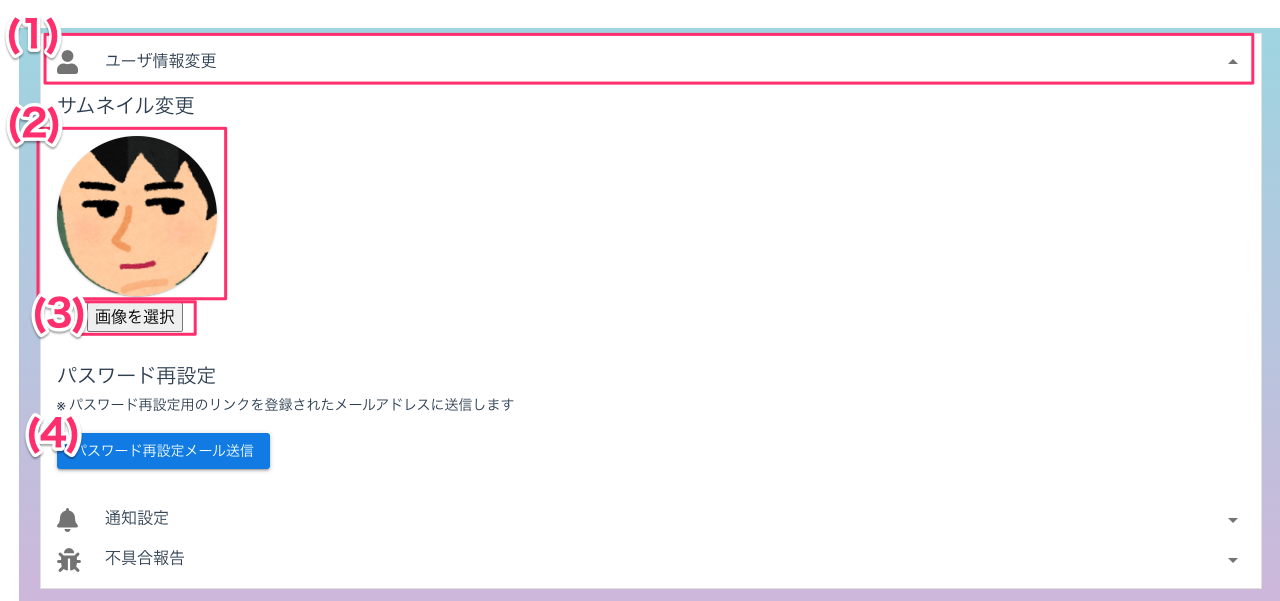
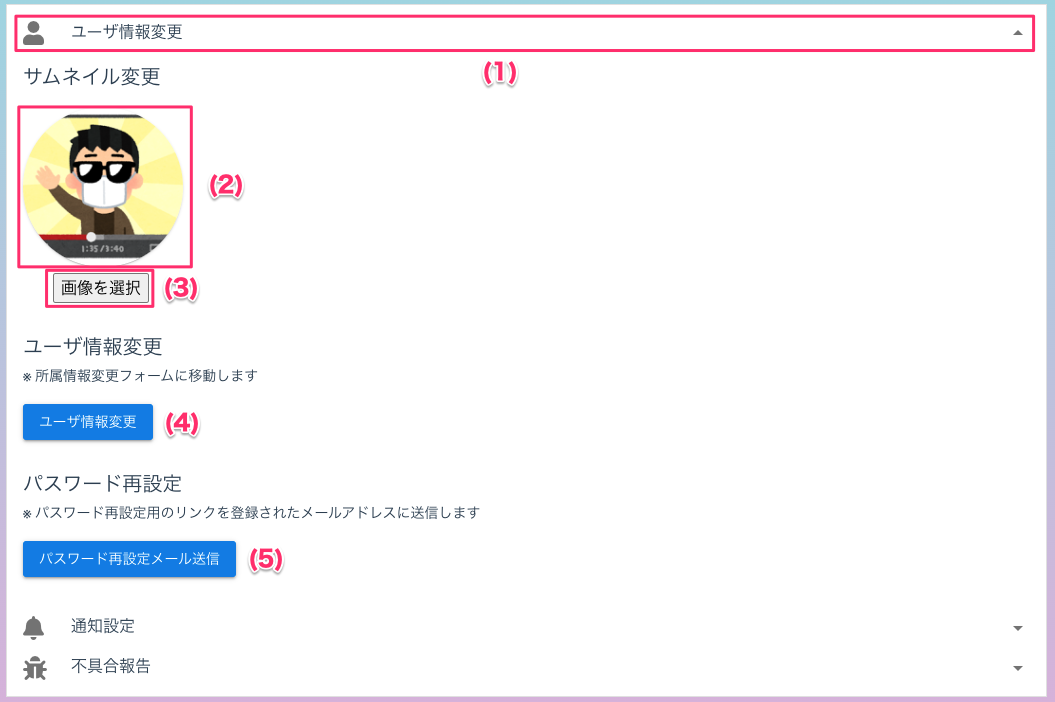
202505リリース

Changed region(s): [[0.0, 0.0, 1.0, 1.0]]

diff --git a/docs/releasenote/index.md b/docs/releasenote/index.md
@@ -1,17 +1,68 @@
 # リリースノート
 
-## :material-new-box: 2025年3月アップデート内容
+## :material-new-box: 2025年5月アップデート内容
+
+**※詳細は各リンクからご確認ください。**
+
+- ***新機能***
+    - **グラッチェ取消([<u>Web版</u>](../一般機能/GraziePoint/grazie03.md)/[<u>スマホ版</u>](../app/index.md#_7))**
+        - **管理者画面から[<u>グラッチェ取消を許可</u>](../管理者機能/その他設定/other07.md)することでご利用いただけます**
+        - メッセージ送信後、**24時間以内**であれば取消ができるようになります
+        - 取り消されると履歴に表示されなくなります
+        - 付与されたグラッチェポイントや、スーパーグラッチェで送られたコインは元に戻ります
+
+    - **ユーザ情報変更([<u>Web版</u>](../一般機能/Setting/setting01.md#_7)/[<u>スマホ版</u>](../app/index.md#_26))**
+        - **管理者画面から[<u>ユーザ情報変更機能を有効</u>](../管理者機能/その他設定/other06.md)にすることでご利用いただけます**
+        - ユーザ自身でユーザ情報を変更できるようになりました
+            
+            **※現在変更できるのは「所属情報」のみです。**
+
+    - **自動集計実行時のメール送信([<u>Web版</u>](../管理者機能/自動集計設定/autototal02.md#_7))**
+        - **現在設定されている自動集計は、デフォルトで「メール送信」が有効になっています。**メールを送りたくない場合は、[**<u>編集画面</u>**](../管理者機能/自動集計設定/autototal01.md#_6)から完了メールを無効にしてください
+        - 自動集計が実行された際に、通知メールを送信するオプションを追加しました
+        - 失敗した場合には、原因もあわせてメールに記載されます
 
 - ***変更点***
-    - スマホアプリ版
-        - [<u>パスワード再発行機能の追加</u>](../app/index.md#_3)
-            - ログイン画面からパスワード再発行のメールを送信できるようになります。
-        - [<u>ランキング画面の操作性向上</u>](../app/index.md#ranking)
-            - 事業所の切り替え方法をタブからプルダウンに変更しました。
-        - **アプリのパフォーマンス向上**
-            - デザインを一部改善し、よりスムーズに操作できるようになりました。
-    - Web版
-        - 変更はございません。
+    - **デフォルトメッセージ画面の初回タップ時に設定されているメッセージをクリアするようになりました([<u>スマホ版</u>](../app/index.md#_27))**
+        - 設定されているデフォルトメッセージを確認・編集しやすくなりました
+    - **コイン履歴に送金時のメッセージが表示されるようになりました(スマホ版)**
+        - 対象：スーパーグラッチェ／コイン送金／管理者画面からのコイン送金
+
+            <a href="../releasenote/img/202505/202505-1.png" data-lightbox="スクリーンショット" data-title="スクリーンショット">
+                <img src="../releasenote/img/202505/202505-1.png" style=" width: 300px;" />
+            </a>
+
+    - **ボタンが押せない場合は灰色で表示されるようになりました(スマホ版)**
+        - 押せない状態がひと目で分かるようになり、操作ミスを防ぎやすくなりました
+            - 押せない状態
+
+            <a href="../releasenote/img/202505/202505-2.png" data-lightbox="スクリーンショット" data-title="スクリーンショット">
+                <img src="../releasenote/img/202505/202505-2.png" style="border: solid 1px #ccc; width: 465px;" />
+            </a>
+
+            - 押すことができる状態
+
+            <a href="../releasenote/img/202505/202505-3.png" data-lightbox="スクリーンショット" data-title="スクリーンショット">
+                <img src="../releasenote/img/202505/202505-3.png" style="border: solid 1px #ccc; width: 465px;" />
+            </a>
+
+    - **画面上部に「Grazie Coin」のロゴが表示されるようになりました(スマホ版)**
+        - 現在の画面が「Grazie Coin」の画面であることがより分かりやすくなりました
+
+            <a href="../releasenote/img/202505/202505-4.png" data-lightbox="スクリーンショット" data-title="スクリーンショット">
+                <img src="../releasenote/img/202505/202505-4.png" style="width: 300px;" />
+            </a>
+
+## 2025年3月アップデート内容
+
+- ***新機能***
+    - **パスワード再発行機能の追加([<u>スマホ版</u>](../app/index.md#_3))**
+        - ログイン画面からパスワード再発行のメールを送信できるようになります
+- ***変更点***
+    - **ランキング画面の操作性向上([<u>スマホ版</u>](../app/index.md#ranking))**
+        - 事業所の切り替え方法をタブからプルダウンに変更しました
+    - **パフォーマンス向上(スマホ版)**
+        - デザインを一部改善し、よりスムーズに操作できるようになりました
 
 ##  2024年11月アップデート内容
 
@@ -58,17 +109,17 @@
 ##  2024年9月アップデート内容
 
 - ***新機能***
-    - **商品に在庫数を設定できるようになりました！([<u>Web版</u>](../管理者機能/productmaintenance.md)/[<u>スマホアプリ版</u>](../app/index.md#_10))**
+    - **商品に在庫数を設定できるようになりました！([<u>Web版</u>](../管理者機能/productmaintenance.md)/[<u>スマホ版</u>](../app/index.md#_10))**
         - 在庫数が0になると「売り切れ」になり、ユーザは商品の交換ができなくなります
-    - **商品の交換申請を取り消しできるようになりました！([<u>Web版</u>](../一般機能/GrazieCoin/coin04.md)/[<u>スマホアプリ版</u>](../app/index.md#_11))**
+    - **商品の交換申請を取り消しできるようになりました！([<u>Web版</u>](../一般機能/GrazieCoin/coin04.md)/[<u>スマホ版</u>](../app/index.md#_11))**
         - 取り消しを行うと、交換時に消費したコインが返金されます
         - **※2024年9月以降に交換申請した商品のみが対象です**
-    - **コイン送金機能の制限ができるようになりました！([<u>Web版</u>](../管理者機能/その他設定/other05.md)/[<u>スマホアプリ版</u>](../app/index.md#coin))**
+    - **コイン送金機能の制限ができるようになりました！([<u>Web版</u>](../管理者機能/その他設定/other05.md)/[<u>スマホ版</u>](../app/index.md#coin))**
         - 制限されたユーザは一般画面のコイン送金ができなくなります(管理者画面からのコイン送金は除く)
     - **CSVアップロードが更新にも対応するようになりました！([<u>Web</u>](../管理者機能/ユーザ/user04.md))**
         - 今までは登録のみでしたが、ついに更新にも対応しました
         - また、現在登録しているユーザの一覧をCSVでダウンロードできるため、更新も簡単です！
-    - **履歴からグラッチェできるようになりました！([<u>スマホアプリ版</u>](../app/index.md#history))**
+    - **履歴からグラッチェできるようになりました！([<u>スマホ版</u>](../app/index.md#history))**
         - 履歴に表示されているユーザ名をタップするだけで、グラッチェ入力画面に遷移します
 
 ## 2024年7月アップデート内容

diff --git a/docs/管理者機能/その他設定/other07.md b/docs/管理者機能/その他設定/other07.md
@@ -1,0 +1,57 @@
+[管理者ユーザマニュアル](../../../管理者機能/) > [機能説明](../../../管理者機能/#_16) > [グラッチェ設定](../../../管理者機能/#_26) > [グラッチェ取消](#)
+# グラッチェ取消
+
+## ❓グラッチェ取消とは
+
+グラッチェを**送った**ユーザが、グラッチェを取り消すことができる機能です。
+
+グラッチェ取消の設定が有効であれば、グラッチェを送ってから**24時間以内**であれば取り消すことができます
+
+グラッチェが取り消されると**履歴に表示されなくなり、付与されたグラッチェポイントや、スーパーグラッチェで送られたコインは送信前に戻ります**
+
+### グラッチェ取消機能の仕様
+|   取消対象   | グラッチェポイント    | グラッチェ/コイン履歴  | スーパーグラッチェで配布されたコイン(※)  | グラッチェ回数制限(*)  |
+| :---: | :---: | :---: | :---: | :---: |
+| 24時間未満 | 送受信ユーザのポイントが1減ります | 非表示になります | 受信ユーザから回収されて会社の残高に戻ります | 回数が1回戻ります |
+
+**※機能を有効にされている場合にのみ適用されます**
+
+
+### グラッチェ取消設定の有効範囲
+
+事業所が有効な場合、**事業所ごとに設定を行う必要があります**。
+
+!!! example
+    - 横浜事業所 : グラッチェ取消有効
+    - 千葉事業所 : グラッチェ取消無効
+
+    上記のような設定がされている場合、横浜事業所のユーザはグラッチェ取消できますが、千葉事業所ユーザはグラッチェ取消ができません
+
+### 注意事項
+
+!!! warning
+    - グラッチェを取消した場合でも、既に集計されている集計結果は変わりません
+    - 「集計・表彰」画面の「メッセージ出力」機能から、集計された期間内の取消されたグラッチェを確認できます
+    - スーパーグラッチェの場合、グラッチェを受信したユーザの残高が配布されたコインよりも少ない場合は取消できません
+
+## 画面
+<a href="../../../images/other/8.png" data-lightbox="スクリーンショット" data-title="スクリーンショット">
+    <img src="../../../images/other/8.png" style="border: solid 1px #ccc; width: 800px;" />
+</a>
+
+（クリックすると拡大します）
+
+
+## 画面項目
+|   #   | 項目名                                 | 必須  | 説明                                                                           |
+| :---: | :------------------------------------- | :---: | :----------------------------------------------------------------------------- |
+|   1   | [グラッチェ回数制限タブ](other01.md)                 |   -   | グラッチェ回数制限を設定するタブです                                           |
+|   2   | [スーパーグラッチェタブ](other02.md)                 |   -   | スーパーグラッチェを設定するタブです                                           |
+|   3   | グラッチェ取消タブ         |   -   | グラッチェ取消機能を設定するタブです                     |
+|   4   | グラッチェ取消機能有効スイッチ |   -   | グラッチェ取消設定の有効・無効を切り替えるスイッチです |
+|   5   | 取消機能の仕様          |   -   | グラッチェ取消機能の仕様が表示されます                    |
+|   6   | 保存ボタン                             |   -   | ボタンを押すと設定を保存します                                                 |
+
+## 使い方
+### グラッチェ取消機能を設定する
+<iframe src="https://scribehow.com/embed/__twp2K_5ZSoWIsflhNNNeUw" width="640" height="640" allowfullscreen frameborder="0"></iframe>

diff --git a/docs/管理者機能/自動集計設定/autototal02.md b/docs/管理者機能/自動集計設定/autototal02.md
@@ -1,5 +1,5 @@
 [管理者ユーザマニュアル](../../../管理者機能/) > [機能説明](../../../管理者機能/#_16) > [自動集計設定](../../../管理者機能/#_23) > [集計対象組織選択](#)
-# 集計対象組織選択
+# :material-new-box: 集計対象組織選択
 
 ## 画面
 <a href="../../../images/autototal/2-1.png" data-lightbox="スクリーンショット" data-title="スクリーンショット">
@@ -13,10 +13,12 @@
 |   #   | 項目名           | 必須  | 説明                                                       |
 | :---: | :--------------- | :---: | :--------------------------------------------------------- |
 |   1   | 表彰実行スイッチ |   -   | スイッチONを設定すると、自動で集計を実行後に表彰を行います |
-|   2   | 集計対象         |   ○   | 集計対象を選択します                                       |
-|   3   | 集計対象部署     |   ○   | 集計対象とする部署を選択します                             |
-|   4   | [一覧へ戻るボタン](autototal01.md) |   -   | ボタンを押すと自動集計設定一覧画面へ戻ります               |
-|   5   | [次へボタン](autototal03.md)       |   -   | ボタンを押すと賞金入力画面へ遷移します                     |
+|   2   | :material-new-box: 完了メールスイッチ |   -   | スイッチONを設定すると、集計実行後に管理者宛にメールを送信します |
+|   3   | :material-new-box: 完了メールヘルプボタン |   -   | マウスカーソルを合わせると完了メールについて説明が表示されます |
+|   4   | 集計対象         |   ○   | 集計対象を選択します                                       |
+|   5   | 集計対象部署     |   ○   | 集計対象とする部署を選択します                             |
+|   6   | [一覧へ戻るボタン](autototal01.md) |   -   | ボタンを押すと自動集計設定一覧画面へ戻ります               |
+|   7   | [次へボタン](autototal03.md)       |   -   | ボタンを押すと賞金入力画面へ遷移します                     |
 
 
 ## 使い方
@@ -27,3 +29,9 @@
 ### 集計対象組織を指定する（表彰あり）
 <iframe src="https://scribehow.com/embed/__9N7Ha-7zS3u8jP3Tkzr8Kw" width="640" height="640" allowfullscreen frameborder="0"></iframe>
 
+### 自動集計実行時の完了メールを設定する
+- 完了メールについて
+    - 集計完了時に「**自動集計を作成したユーザ**」と自動集計を設定した「**会社/事業所の管理者全員**」にメールが送られます
+    - 自動集計に失敗した場合には、原因もあわせてメールに記載されます
+
+<iframe src="https://scribehow.com/embed/__w81TwKlrTpytWxE57U6C-A" width="640" height="640" allowfullscreen frameborder="0"></iframe>

diff --git a/docs/app/index.md b/docs/app/index.md
@@ -29,7 +29,7 @@
   - Android : 指紋認証、顔認証が利用できます
     - 画面上のラベルは「指紋認証」「顔認証」と表示されます
 
-### :material-new-box: パスワード再設定
+### パスワード再設定
 ##### 1.パスワード入力欄の右下にある「パスワード忘れた？」をタップしてください
 
 <img alt="ログイン" src="img/login2.png" width="300">
@@ -72,6 +72,12 @@
 <img alt="Home3" src="img/Home4.png" width="300">
 <img alt="Home4" src="img/Home3.png" width="300">
 
+### :material-new-box: グラッチェを取り消す
+
+- グラッチェ取消機能の仕様は[こちら](../管理者機能/その他設定/other07.md)をご確認ください。
+
+<img alt="Home5" src="img/Home5.png" width="300">
+<img alt="Home6" src="img/Home6.png" width="300">
 
 ## Grazie
 グラッチェを送る画面です。
@@ -151,7 +157,7 @@
 <img alt="商品選択" src="img/coin6.png" width="300">
 
 
-## :material-new-box: Ranking
+## Ranking
 過去の集計結果、その日のグラッチェをした/されたユーザをランキング形式で表示する画面です。
 グラッチェ集計の表彰ランキングと、サービス利用開始から通算のランキングと、1日ごとのランキングを表示します。
 プルダウンを切り替えるとサービスを利用する組織全体や事業所ごとの表示になります。
@@ -248,10 +254,23 @@
 <img alt="サムネイル画像確認" src="img/settings5.png" width="300">
 <img alt="サムネイル変更後" src="img/settings6.png" width="300">
 
-### グラッチェメッセージ変更
+### :material-new-box: ユーザ情報変更
+
+- ユーザ情報更新リンク機能が有効になっている場合にのみご利用いただけます
+- ユーザ情報更新フォームの操作手順は[こちら](../一般機能/Setting/setting01.md#_7)をご確認ください
+
+<img alt="ユーザ情報変更" src="img/settings9.png" width="300">
+<img alt="ユーザ情報変更" src="img/settings10.png" width="300">
+
+### :material-new-box: グラッチェメッセージ変更
 Grazie画面でユーザ名の右隣に表示される👍ボタンをタップした際のデフォルトメッセージを変更できます。
 
 <img alt="デフォルトグラッチェメッセージ" src="img/settings2.png" width="300">
+
+:material-new-box: 設定されているメッセージをタップすると入力がクリアされ、入力例に設定されていたメッセージが表示されます。
+
+<img alt="設定" src="img/settings7.png" width="300">
+<img alt="設定" src="img/settings8.png" width="300">
 
 ### 言語設定変更
 アプリ全体に表示されるラベルやボタンの言語の設定を変更することができます。

diff --git a/docs/管理者機能/その他設定/other06.md b/docs/管理者機能/その他設定/other06.md
@@ -1,0 +1,32 @@
+[管理者ユーザマニュアル](../../../管理者機能/) > [機能説明](../../../管理者機能/#_16) > [その他設定](../../../管理者機能/#_28) > [ユーザ更新リンク](#)
+# ユーザ更新フォーム
+
+## 画面
+<a href="../../../images/other/7-1.png" data-lightbox="スクリーンショット" data-title="スクリーンショット">
+    <img src="../../../images/other/7-1.png" style="border: solid 1px #ccc; width: 800px;" />
+</a>
+
+（クリックすると拡大します）
+
+
+## 画面項目
+|   #   | 項目名                             | 必須  | 説明                                                                                                                               |
+| :---: | :--------------------------------- | :---: | :--------------------------------------------------------------------------------------------------------------------------------- |
+|   1   | ユーザ更新フォーム有効スイッチ     |   -   | ユーザ更新フォームからのユーザ更新の[有効](#_5)・[無効](#_6)を切り替えるスイッチです                                                             |
+|   2   | ユーザ更新URL                      |   -   | ユーザ更新フォームのURLを表示します                                                                                                |
+|   3   | URLをコピーボタン                  |   -   | ボタンを押すとユーザ更新URLをクリップボードにコピーします                                                                          |
+|   4   | URLを再発行するボタン              |   -   | ボタンを押すとユーザ更新URLをランダムに生成しなおします                                                                            |
+
+## 使い方
+### ユーザ更新フォームを有効にする
+<iframe src="https://scribehow.com/embed/__dOhGOwFqQ8WMAahr-6z19Q" width="640" height="640" allowfullscreen frameborder="0"></iframe>
+
+### ユーザ更新フォームを無効にする
+<iframe src="https://scribehow.com/embed/__MDENT2jYRh2vTLhKA8HYRg" width="640" height="640" allowfullscreen frameborder="0"></iframe>
+
+!!! info
+    ユーザ更新フォームが無効な場合、ユーザ情報を更新しようとすると以下のエラーが表示されます。
+
+<a href="../../../images/other/7-2.png" data-lightbox="スクリーンショット" data-title="スクリーンショット">
+    <img src="../../../images/other/7-2.png" style="border: solid 1px #ccc; width: 800px;" />
+</a>

diff --git a/docs/一般機能/Setting/setting01.md b/docs/一般機能/Setting/setting01.md
@@ -20,10 +20,11 @@
 |   1   | 開閉ボタン                   |   -   | ボタンを押すとユーザ情報変更エリアを開閉します                                     |
 |   2   | 現在のサムネイル |   -   | サムネイルを設定している場合、そのサムネイルを表示します |
 |   3   | サムネイル画像選択ボタン     |   -   | ボタンを押すとサムネイル画像選択ダイアログを開きます                               |
-|   4   | パスワード再設定メール送信   |   -   | ボタンを押すとパスワード再設定メールを、ログインユーザのメールアドレスを送信します |
-|   5   | サムネイル範囲選択編集 |   -   | 選択した画像から、サムネイルに設定する範囲を編集できます |
-|   6   | 閉じるボタン |   -   | 変更を破棄し、元の画面に戻ります |
-|   7   | サムネイル変更ボタン |   -   | 確認メッセージを表示します |
+|   4   | :material-new-box: ユーザ情報変更ボタン   |   -   | ボタンを押すとグラッチェコインユーザ更新フォームへ遷移します **※ユーザ更新リンク機能が有効になっている場合のみ表示されます** |
+|   5   | パスワード再設定メール送信   |   -   | ボタンを押すとパスワード再設定メールを、ログインユーザのメールアドレスを送信します |
+|   6   | サムネイル範囲選択編集 |   -   | 選択した画像から、サムネイルに設定する範囲を編集できます |
+|   7   | 閉じるボタン |   -   | 変更を破棄し、元の画面に戻ります |
+|   8   | サムネイル変更ボタン |   -   | 確認メッセージを表示します |
 
 
 
@@ -32,6 +33,11 @@
 ### サムネイル画像を変更する
 <iframe src="https://scribehow.com/embed/__POnaEjhZQoq_7vi7j4IU-Q" width="640" height="640" allowfullscreen frameborder="0"></iframe>
 
+### :material-new-box: ユーザ情報を変更する
+- ユーザ情報更新リンク機能が有効になっている場合にのみご利用いただけます
+- ユーザ情報更新リンク機能が有効にする方法は[こちら](../../管理者機能/その他設定/other06.md)をご確認ください
+
+<iframe src="https://scribehow.com/embed/__HodNdrXDRbiESgq83jM2GA" width="640" height="640" allowfullscreen frameborder="0"></iframe>
 
 ### パスワードを再設定する
 <iframe src="https://scribehow.com/embed/__Gaz1DS8ASsu28GHl11KbpA" width="640" height="640" allowfullscreen frameborder="0"></iframe>

diff --git a/docs/一般機能/GraziePoint/grazie03.md b/docs/一般機能/GraziePoint/grazie03.md
@@ -1,0 +1,35 @@
+[一般ユーザ向けマニュアル](../../../一般機能/) > [機能説明](../../../一般機能/#_2) > [Grazie Point](../../../一般機能/#grazie-point) > [Top](../../../一般機能/GraziePoint/grazie01/) > [グラッチェを取り消す](#)
+# :material-new-box: グラッチェを取り消す
+
+- グラッチェ取消機能の仕様は[こちら](../../管理者機能/その他設定/other07.md)をご確認ください。
+
+## Grazie Point画面
+
+<a href="../../../images/grazie/3-1.png" data-lightbox="スクリーンショット" data-title="スクリーンショット">
+    <img src="../../../images/grazie/3-1.png" style="border: solid 1px #ccc; width: 800px;" />
+</a>
+
+### 項目
+
+|   #   | 項目名           | 必須  | 説明                                                                                           |
+| :---: | :--------------- | :---: | :--------------------------------------------------------------------------------------------- |
+|   1   |  取消ボタン   |   -   | 「取消」ボタンを押すとグラッチェを取り消すしことができます。**※グラッチェを送ってから24時間以内であれば可能です**                       |
+
+
+## グラッチェ取消確認画面
+
+<a href="../../../images/grazie/3-2.png" data-lightbox="スクリーンショット" data-title="スクリーンショット">
+    <img src="../../../images/grazie/3-2.png" style="border: solid 1px #ccc; width: 400px;" />
+</a>
+
+### 項目
+
+|   #   | 項目名             | 必須  | 説明                                                                                 |
+| :---: | :----------------- | :---: | :----------------------------------------------------------------------------------- |
+|   1   | 取り消されるメッセージ |   -   | 取り消すメッセージが表示されます                                           |
+|   2   | [閉じるボタン](#)       |   -   | ボタンを押すと画面を閉じます                                                         |
+|   3   | OKボタン   |   -   | ボタンを押すとグラッチェを取り消します                                         |
+
+
+## グラッチェを取り消す
+<iframe src="https://scribehow.com/embed/__DmUq9fO2SpapyfWgWrLxQg" width="640" height="640" allowfullscreen frameborder="0"></iframe>

diff --git a/docs/管理者機能/自動集計設定/autototal01.md b/docs/管理者機能/自動集計設定/autototal01.md
@@ -21,6 +21,7 @@
 |       | 集計実施月     |   -   | 集計区分が**月**の場合、集計を実施する月を表示します                                                                                                                                                                                                      |
 |       | 集計実施日     |   -   | 集計区分が**月**の場合、集計を実施する日を表示します<br>月初: 集計実施月の1日<br>月末: 集計実施月の末日<br>上記以外: 自動集計設定で指定した任意の日                                                                                                                                                                                                       |
 |       | 集計実施曜日   |   -   | 集計区分が**曜日**の場合、集計を実施する曜日を表示します                                                                                                                                                                                                        |
+|       | :material-new-box: 完了メール有無   |   -   | 自動集計実行時に完了メールの有無を表示します                                                                                                                                                                                                        |
 |       | 最終実行日     |   -   | 自動で集計を実行した日付を表示します                                                                                                                                                                                                       |
 |   4   | [編集ボタン](#_6)     |   -   | ボタンを押すと自動集計設定変更画面へ遷移します                                                                                                                                                                                                       |
 |   5   | [削除ボタン](#_7)     |   -   | ボタンを押すと自動集計設定を削除します                                                                                                                                                                                                        |

diff --git a/docs/管理者機能/自動集計設定/autototal00.md b/docs/管理者機能/自動集計設定/autototal00.md
@@ -27,6 +27,10 @@
     - [表彰](../集計・表彰/total03.md)と同等の以下の設定が可能です
         - 1位に5,000コインを配布
         - 1〜3位に1,000コインずつ配布、4〜10位には100コイン配布
+4. :material-new-box: 自動集計実行時の完了メールを送信
+    - 集計完了時に「**自動集計を作成したユーザ**」と自動集計を設定した「**会社/事業所の管理者全員**」にメールが送られます
+    - 自動集計に失敗した場合には、原因もあわせてメールに記載されます
+
 
 ## 自動集計の実行タイミング
 集計したい日の翌日の未明に、システムが自動で集計を実行します。

diff --git a/docs/管理者機能/index.md b/docs/管理者機能/index.md
@@ -114,6 +114,7 @@
 ### :material-thumb-up: グラッチェ設定 
 - [回数制限](その他設定/other01.md)
 - [スーパーグラッチェ](その他設定/other02.md)
+- [グラッチェ取消](その他設定/other07.md)
 
 ### :material-lock: 機能制限設定
 - [コイン送金制限設定](その他設定/other05.md)
@@ -122,6 +123,7 @@
 
 ### :material-cog: その他設定 
 - [ユーザ登録リンク](その他設定/other03.md)
+- [ユーザ更新リンク](その他設定/other06.md)
 
 ## 機能説明(オプション)
 - :fontawesome-solid-money-bill: [レート](../管理者機能/オプション機能/option01.md#)

diff --git a/docs/一般機能/index.md b/docs/一般機能/index.md
@@ -8,6 +8,7 @@
 ### :material-thumb-up: Grazie Point
 - [Top](GraziePoint/grazie01.md)
     - [グラッチェする](GraziePoint/grazie02.md)
+    - :material-new-box: [グラッチェを取り消す](GraziePoint/grazie03.md)
 
 ### :fontawesome-solid-coins: Grazie Coin
 - [Top](GrazieCoin/coin01.md)
